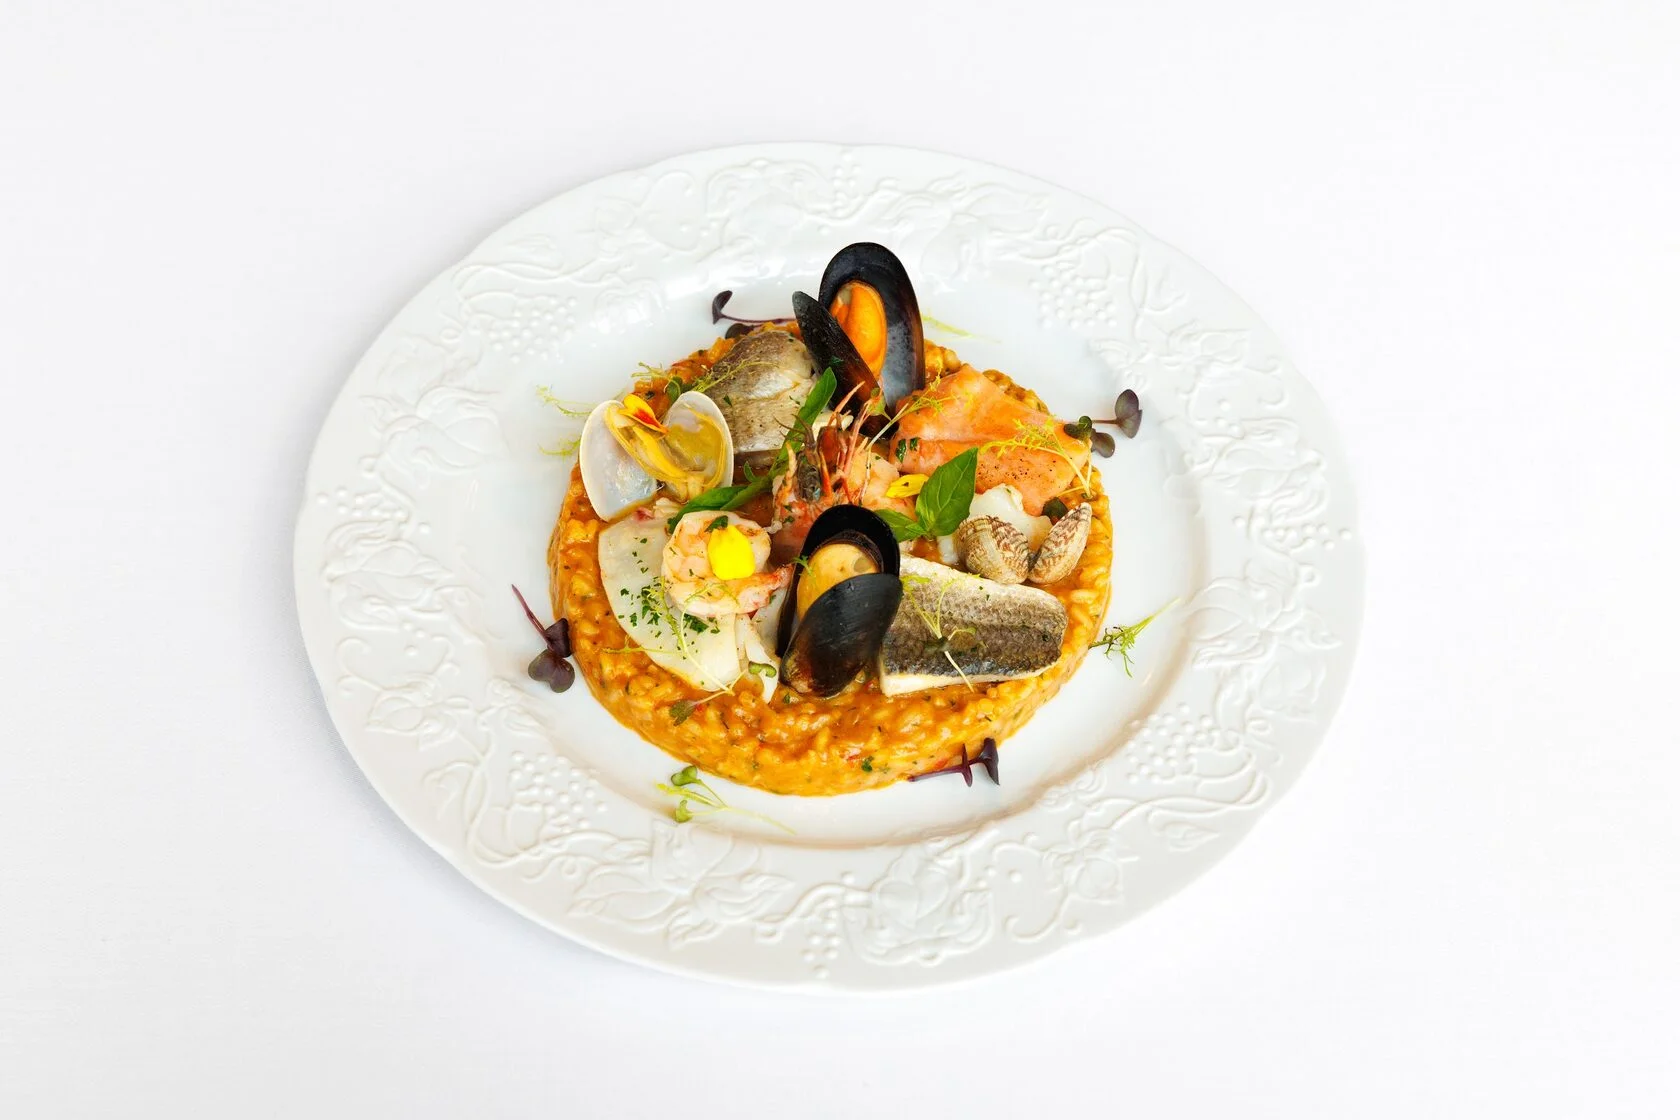
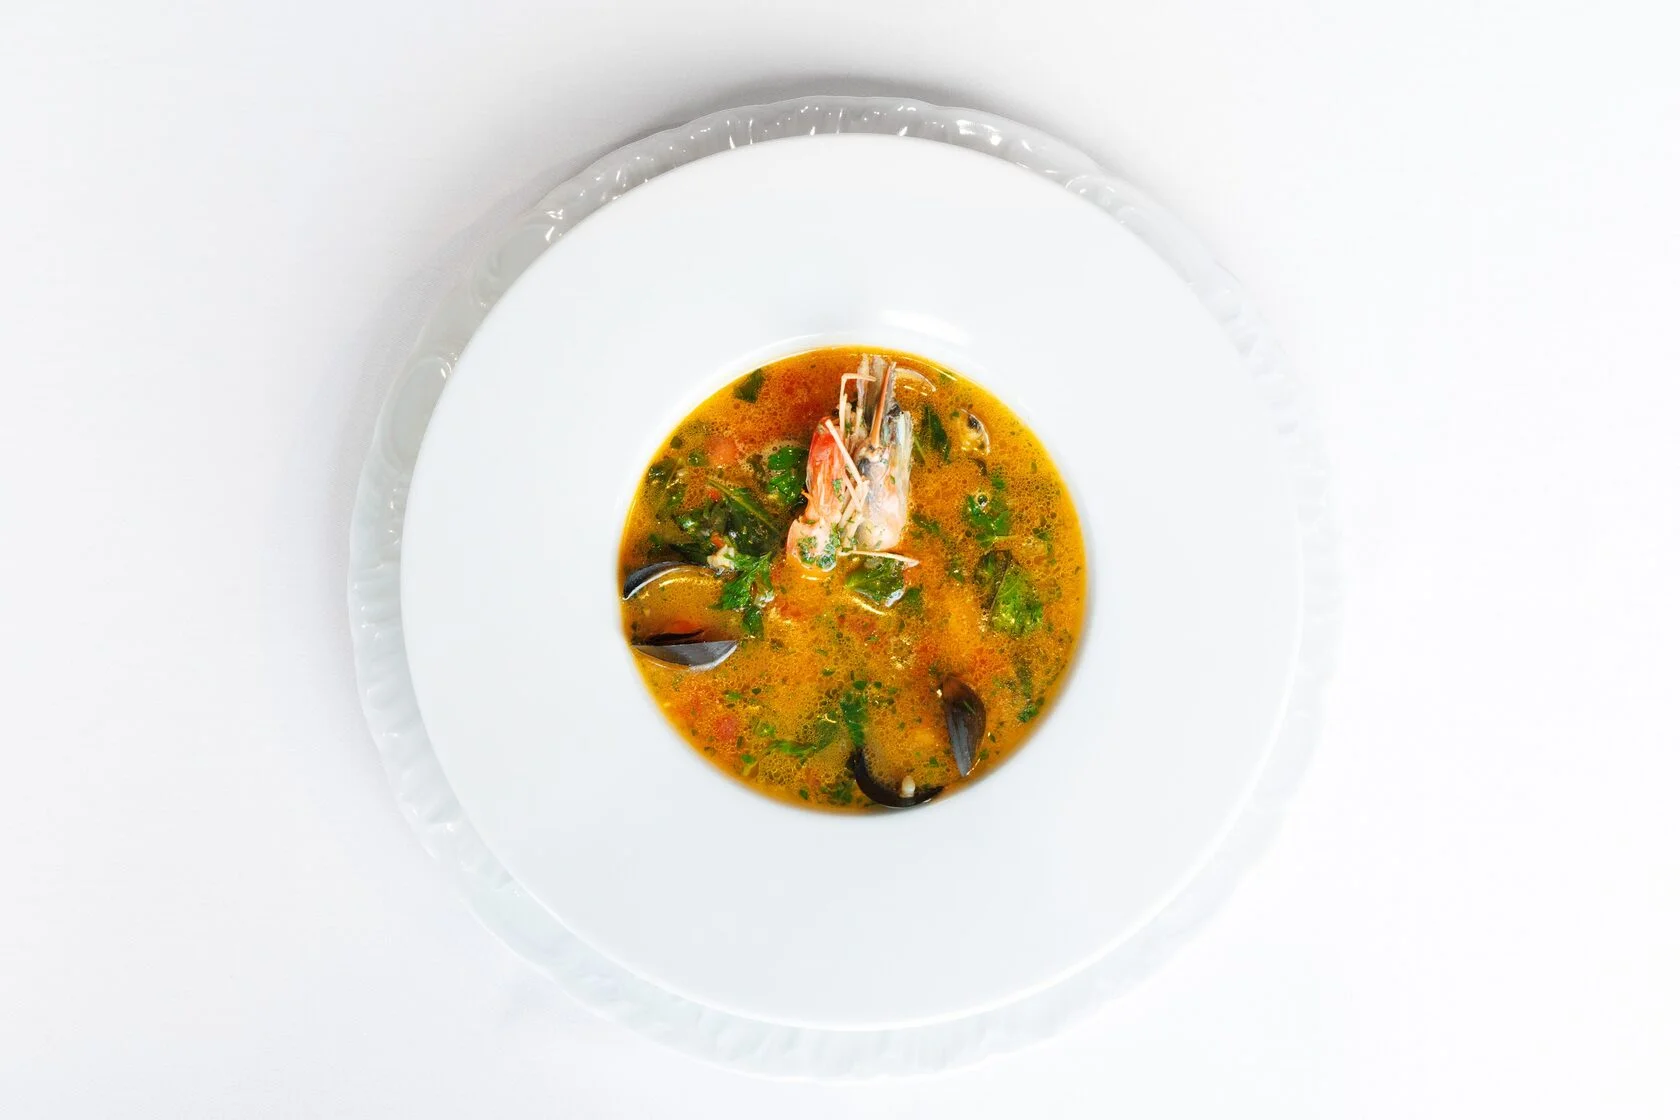
fraf

Changed region(s): [[0.2476, 0.2188, 0.7738, 0.875], [0.1548, 0.0312, 0.681, 0.75]]

diff --git a/frontend/src/pages/InfoPage.js b/frontend/src/pages/InfoPage.js
@@ -83,6 +83,9 @@ function InfoPage() {
     if (toolLower.includes('база')) {
       return '/images/data-base-head.webp';
     }
+    if (toolLower.includes('гайды') || toolLower.includes('памятки')) {
+      return '/images/cheat-sheet.webp';
+    }
     return null;
   };
 
@@ -232,7 +235,7 @@ function InfoPage() {
     },
     {
       name: 'Гайды/Инструкции/Памятки',
-      path: '/cheat-sheet.webp',
+      path: '/useful',
       type: 'react',
       description: 'Самое важное, что нужно помнить',
       comingSoon: false
